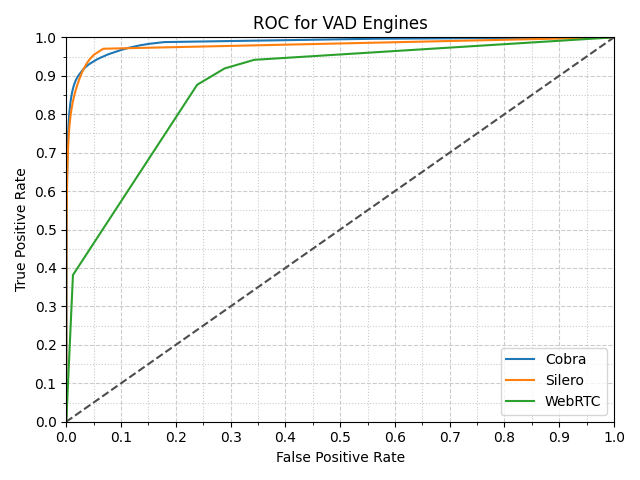
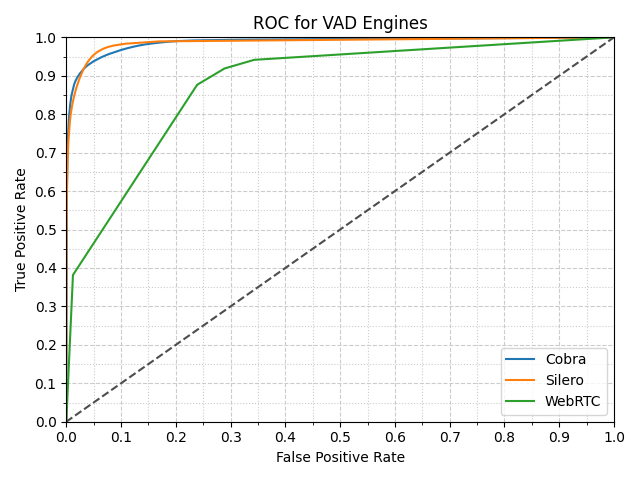
Adjust thresholds for more granular plot

Changed region(s): [[0.1562, 0.0625, 0.8438, 0.125]]

diff --git a/engine.py b/engine.py
@@ -32,8 +32,8 @@ engine_create_map = {
 }
 
 threshold_info_map = {
-    Engines.COBRA: ThresholdInfo(0.0, 1.0, 0.005),
-    Engines.SILERO: ThresholdInfo(0.0, 1.0, 0.005),
+    Engines.COBRA: ThresholdInfo(0.0, 1.0, 0.001),
+    Engines.SILERO: ThresholdInfo(0.0, 1.0, 0.001),
     Engines.WEBRTC: ThresholdInfo(0, 3, 1),
 }
 
